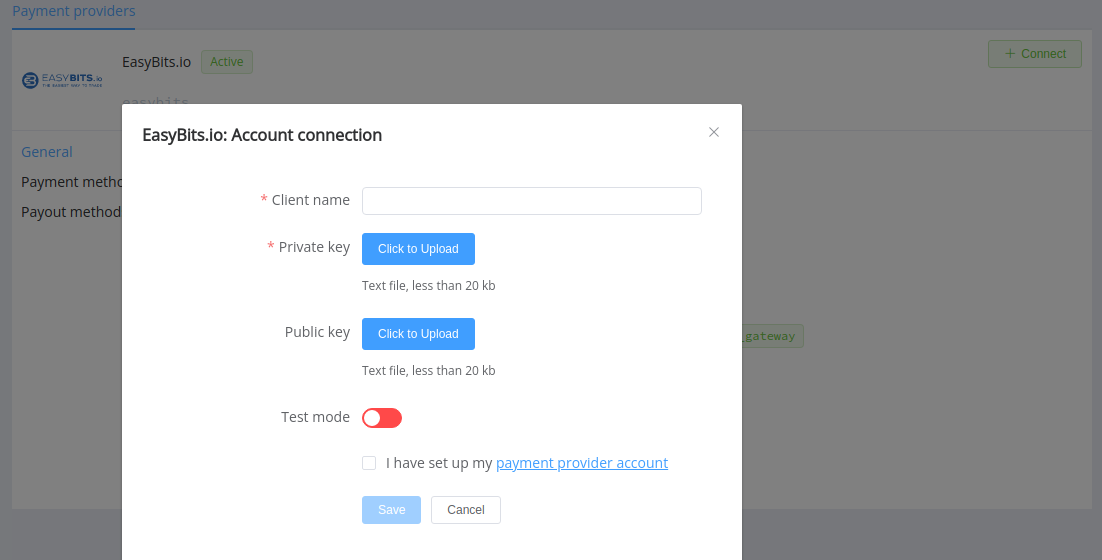
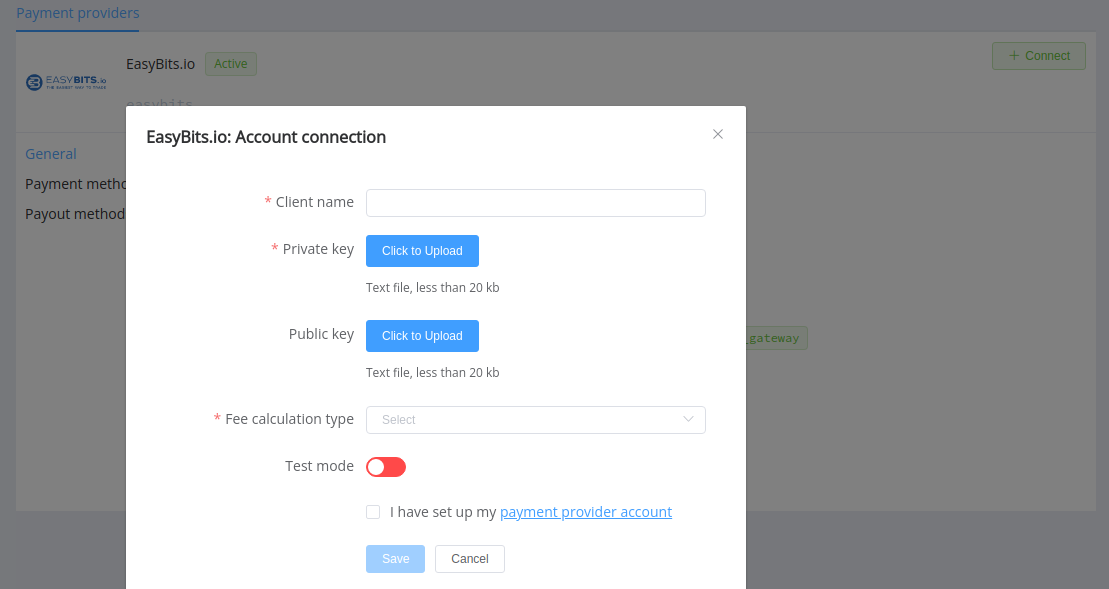
add info about fee calc field

diff --git a/docs/connectors/easybits/index.md b/docs/connectors/easybits/index.md
@@ -21,6 +21,8 @@ Send a request via the email. Submit the required documents to verify your accou
 
 After registration, you obtain a unique client code name and also generate on your side a pair of RSA keys: public and private in the PEM (pkcs8) format. Contact your EasyBits.io support manager if you have any complications with obtaining credentials.
 
+You also should decide how EasyBits.io and {{custom.company_name}} will calculate the payment fee (by inner or outer methods).
+
 ## Connect Provider Account
 
 ### Step 1. Connect account at the {{custom.company_name}} Dashboard
@@ -34,7 +36,7 @@ Enter your `clientCodeName` as the *Client code name* and upload:
 * *Private Key*
 * *Public key* (optional: only for **wholly new** accounts; if you entirely set up your account at the provider side, you shouldn't specify its *Public key* at the Corefy dashboard)
 
-Select Test or Live mode according to the type of account to connect with EasyBits.io.
+Select Test or Live mode according to the type of account to connect with EasyBits.io. Choose your Fee calculation type.
 
 !!! success
     You have connected **EasyBits.io** account!
